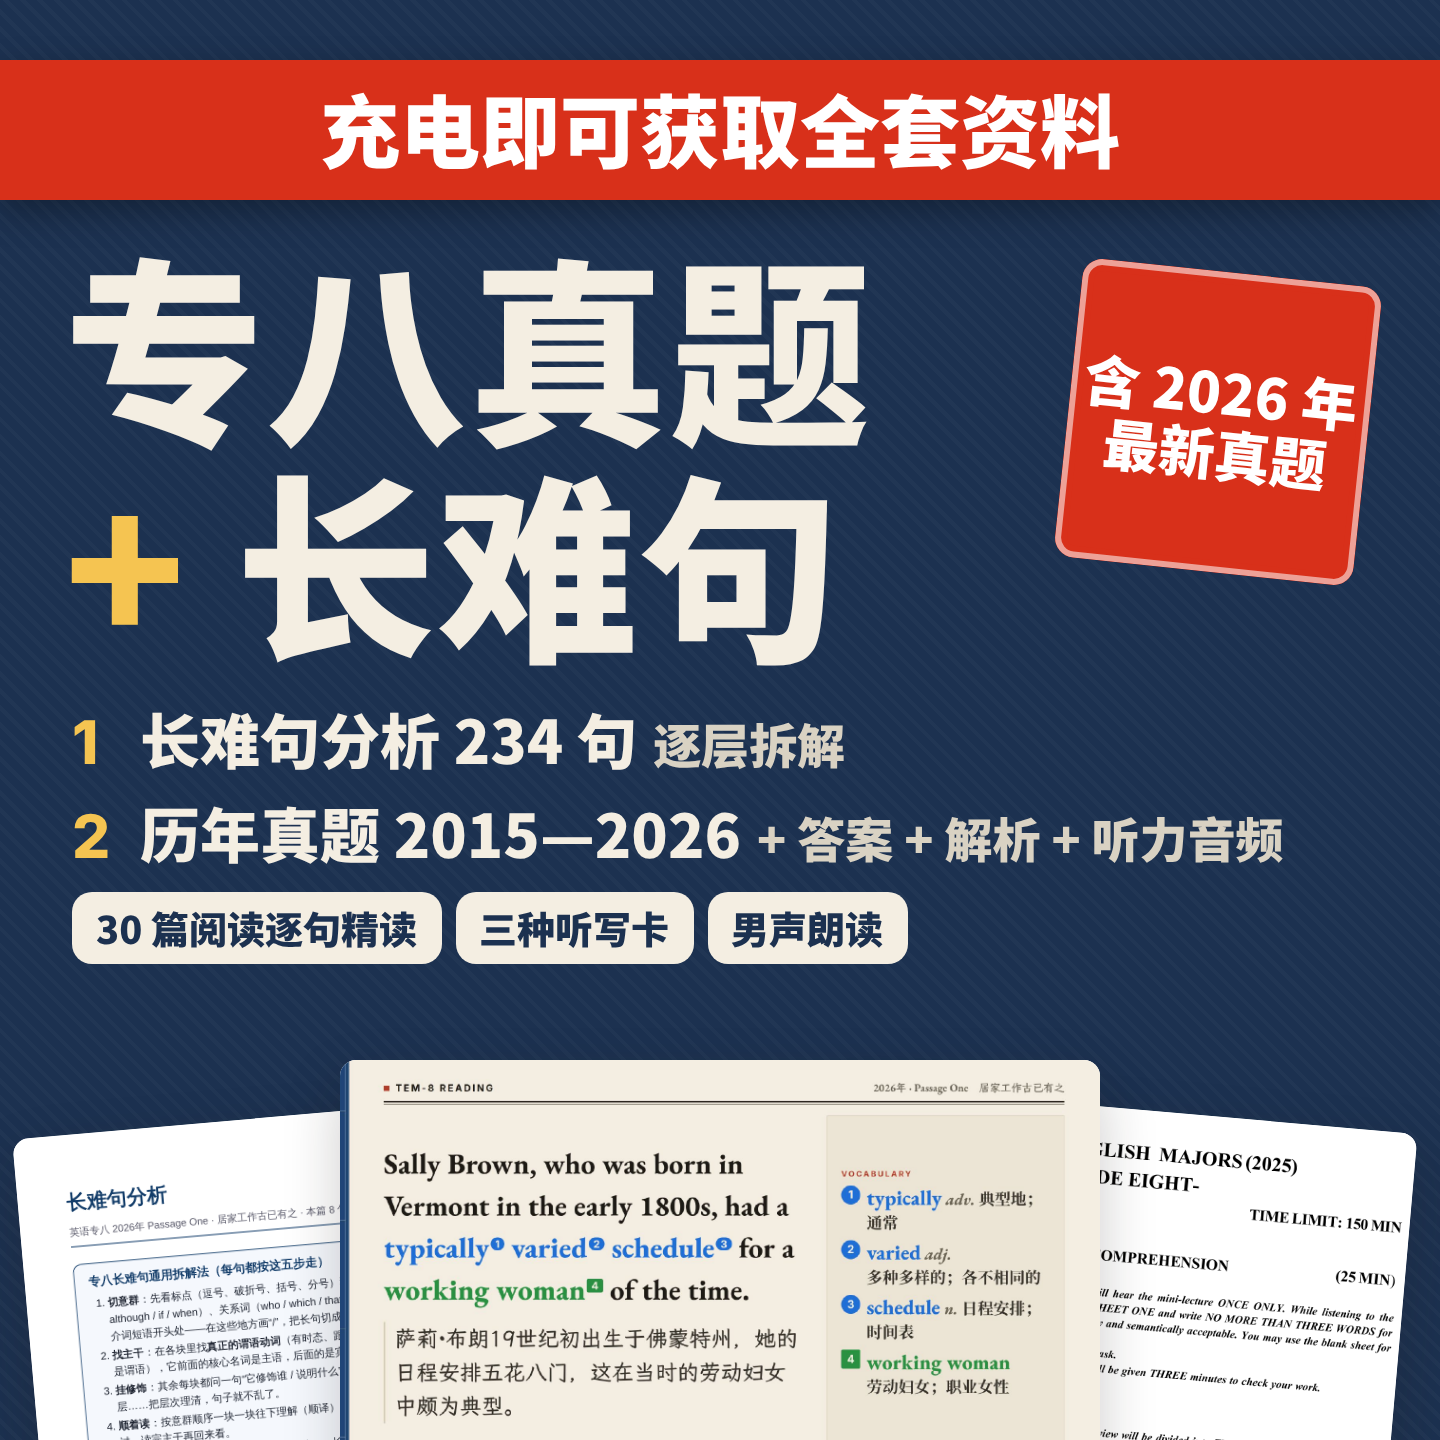
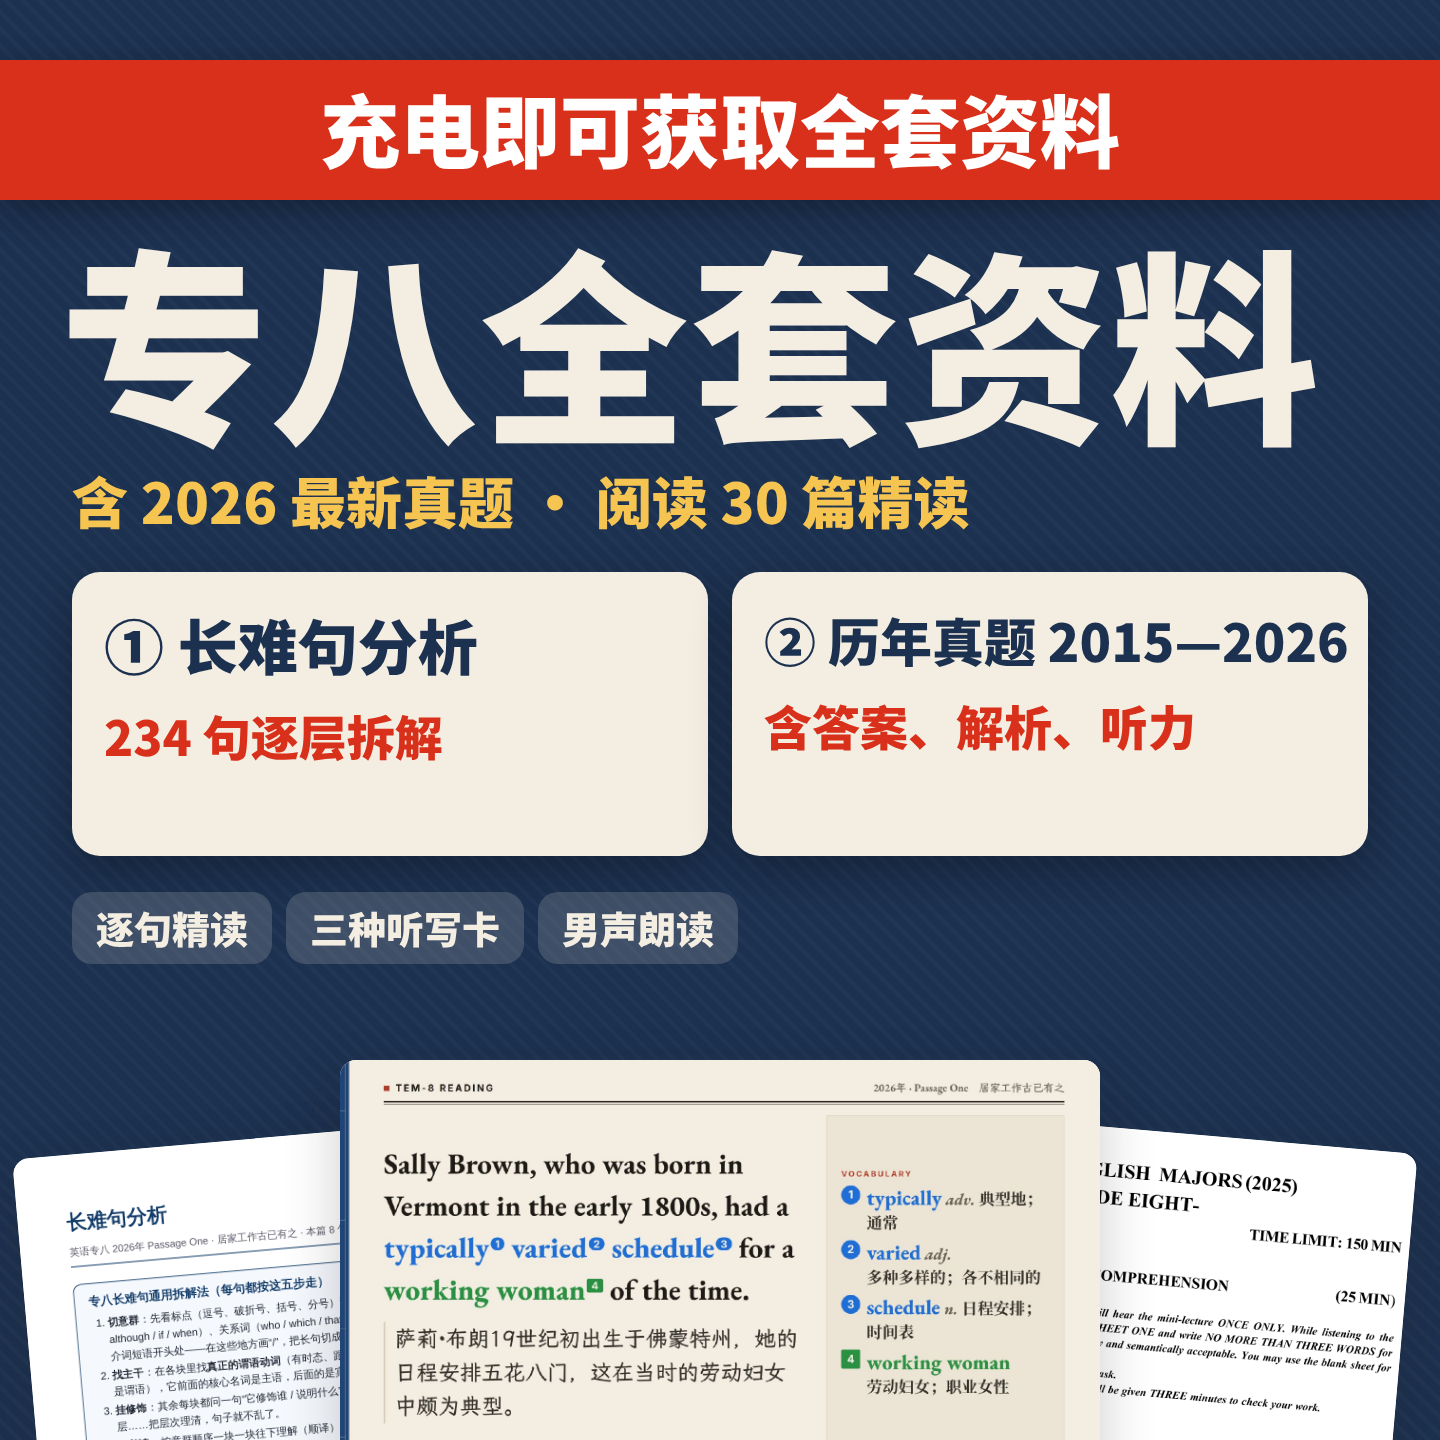
专八 B 站动态图：新封面（专八全套资料 + 长难句 / 历年真题两大块），补年份区间拆行检查
Claude-Session: https://claude.ai/code/session_01BA1TPCtgYnJTqbqxuNYb6d

diff --git a/专八/资料包宣传图/宣传图.py b/专八/资料包宣传图/宣传图.py
@@ -120,6 +120,7 @@ def fs(n):
 
 # 缩到 360 像素（720 设计宽 × 0.5）后的字高下限（像素）
 MIN_TITLE, MIN_HOOK, MIN_H1, MIN_SELL = 22, 12, 14, 9
+MIN_BLOCK = 12      # 封面两大块（长难句、历年真题）：仅次于标题，360 缩略图上至少 12 像素
 MIN_BODY = 17        # 720 设计宽里任何文字的下限（手机看整张图时约 9.4pt）
 
 # 书卷水墨配色（专八/封面/系列封面.py）
@@ -178,28 +179,29 @@ def n(x, c=KY):
 
 # ---------------------------------------------------------------- 01 封面：三个方向
 def cover_A(title=None):
-    """靛蓝书衣：红色横幅“充电即可获取全套资料” + 全套主题大字 + 两大卖点（长难句、历年真题）+ 底部真实页面。"""
+    """靛蓝书衣：红色横幅“充电即可获取全套资料” + 全套主题一行大字 + 并排两大块（① 长难句 ② 历年真题，字号仅次于标题）
+    + 其余一行小标签 + 底部真实页面。两大块在 360 缩略图上必须读得清（data-min = MIN_BLOCK）。"""
     title = title or COVER_TITLE
-    chip = f'class="chip" style="background:{PAPER};color:{CLOTH};font-size:{fs(19)};padding:8px 12px 9px;margin:0 7px 7px 0"'
-    pts = [(f'长难句分析 {LONG} 句', '逐层拆解'), (f'历年真题 2015—2026', '+ 答案 + 解析 + 听力音频')]
-    rows = ''.join(f'<div style="display:flex;align-items:baseline;margin-bottom:6px"><span class="lat" style="color:{YEL};width:34px">{i + 1}</span>'
-                   f'<span>{e(a)}</span><span style="font-size:.8em;color:#d9d2c3;margin-left:8px">{e(b)}</span></div>' for i, (a, b) in enumerate(pts))
+    chip = f'class="chip" style="background:rgba(244,238,226,.16);color:{PAPER};font-size:{fs(19)};padding:8px 12px 9px;margin:0 7px 0 0"'
+    blocks = [('①', '长难句分析', f'{LONG} 句逐层拆解'), ('②', '历年真题 2015—2026', '含答案、解析、听力')]
+    bk = ''.join(f'<div class="ab" data-k="b{i}" data-min="{MIN_BLOCK}" style="left:{36 + i * 330}px;top:286px;width:318px;height:142px;background:{PAPER};border-radius:14px;'
+                 f'padding:18px 16px 0;box-shadow:0 8px 20px rgba(0,0,0,.28)"><div style="font:900 {fs(30 if i == 0 else 26)}/1.25 Black;color:{CLOTH};white-space:nowrap">{a} {e(b)}</div>'
+                 f'<div style="font:900 {fs(24)}/1.5 Black;color:{KY};margin-top:8px">{e(c)}</div></div>' for i, (a, b, c) in enumerate(blocks))
     return f"""<body class="cloth">
 <div class="ab" data-k="hook" data-min="{MIN_HOOK}" style="left:0;top:30px;width:{W}px;background:{KY};color:#fff;padding:14px 0 16px;text-align:center;font:900 {fs(40)}/1 Black;box-shadow:0 6px 16px rgba(0,0,0,.3)">
 <div>{CHARGE}全套资料</div></div>
-<div class="ab" data-k="title" data-min="{MIN_TITLE}" style="left:32px;top:118px;color:{PAPER};font:900 {fs(100)}/1.08 Black;letter-spacing:.01em">{title}</div>
-<div class="ab" data-k="new" data-min="{MIN_SELL}" style="right:36px;top:136px;width:150px;height:150px"><div class="seal" style="width:150px;height:150px;font-size:{fs(28)};transform:rotate(6deg)"><div><div>含 {YEARS[0]} 年</div><div>最新真题</div></div></div></div>
-<div class="ab" data-k="sell" data-min="{MIN_SELL}" style="left:36px;top:350px;width:660px;color:{PAPER};font:900 {fs(30)}/1.3 Black">{rows}</div>
-<div class="ab" data-k="chips" data-min="{MIN_SELL}" style="left:36px;top:446px;width:660px">
-<span {chip}>{N} 篇阅读逐句精读</span><span {chip}>三种听写卡</span><span {chip}>男声朗读</span></div>
-<div class="shot bleed" style="left:24px;top:556px;width:300px;transform:rotate(-5deg)"><img src="{img('cs_full1.png')}"></div>
-<div class="shot bleed" style="left:410px;top:554px;width:290px;transform:rotate(5deg)"><img src="{img('zt_2025.png')}"></div>
+<div class="ab" data-k="title" data-min="{MIN_TITLE}" style="left:30px;top:112px;color:{PAPER};font:900 {fs(title[1])}/1.1 Black;letter-spacing:.01em;white-space:nowrap">{title[0]}</div>
+<div class="ab" data-k="new" data-min="{MIN_SELL}" style="left:36px;top:236px;color:{YEL};font:900 {fs(28)}/1 Black"><div>含 {YEARS[0]} 最新真题 · 阅读 {N} 篇精读</div></div>
+{bk}
+<div class="ab" data-k="chips" data-min="{MIN_SELL}" style="left:36px;top:446px;width:660px"><span {chip}>逐句精读</span><span {chip}>三种听写卡</span><span {chip}>男声朗读</span></div>
+<div class="shot bleed" style="left:24px;top:566px;width:300px;transform:rotate(-5deg)"><img src="{img('cs_full1.png')}"></div>
+<div class="shot bleed" style="left:410px;top:564px;width:290px;transform:rotate(5deg)"><img src="{img('zt_2025.png')}"></div>
 <div class="shot bleed" style="left:170px;top:530px;width:380px"><img src="{img('jd_01_2.png')}"></div>
 </body>"""
 
 
-COVER_TITLES = {'全套': '<div>专八全套</div><div>学习资料</div>',
-                '真题长难句': f'<div>专八真题</div><div><span style="color:{YEL}">+</span> 长难句</div>'}
+COVER_TITLES = {'全套': ('<div>专八全套资料</div>', 104),
+                '真题长难句': (f'<div>专八真题 <span style="color:{YEL}">+</span> 长难句</div>', 80)}
 COVER_TITLE = COVER_TITLES['全套']
 
 
@@ -233,7 +235,7 @@ def cover_C():
 
 # B、C 是第 1 版（只讲阅读 30 篇）比过后落选的方向，第 2 版只在 A 版式里比两种主题说法
 COVERS = {'A': cover_A, 'A2': lambda: cover_A(COVER_TITLES['真题长难句'])}
-COVER = 'A2'         # 第 2 版：A 版式里比“专八全套学习资料”与“专八真题 + 长难句”的 360 缩略图，后者直接点出两大卖点，选 A2
+COVER = 'A'          # 第 3 版（协调会话意见）：一行主标题 + 并排两大块；比“专八全套资料”与“专八真题 + 长难句”的 360 缩略图，前者与横幅“全套资料”呼应，选 A
 
 
 # ---------------------------------------------------------------- 02 资料包总览：6 件套
@@ -431,6 +433,13 @@ CHECK_JS = """
     out.push(`${e.closest('[data-k]').dataset.k} 内容被裁掉 ${e.scrollHeight}>${e.clientHeight}`);
   for (const e of document.querySelectorAll('[data-k]')) if (getComputedStyle(e).overflow === 'hidden' && e.scrollHeight > e.clientHeight + 1)
     out.push(`${e.dataset.k} 内容被裁掉 ${e.scrollHeight}>${e.clientHeight}`);
+  // 年份区间（2015—2026）不能拆成两行
+  const tw2 = document.createTreeWalker(document.body, NodeFilter.SHOW_TEXT), rg2 = document.createRange();
+  for (let t; (t = tw2.nextNode());) for (const m of t.textContent.matchAll(/\d{4}\s*—\s*\d{4}/g)) {
+    rg2.setStart(t, m.index); rg2.setEnd(t, m.index + m[0].length);
+    const ys = new Set([...rg2.getClientRects()].map(q => Math.round(q.top / 4)));
+    if (ys.size > 1) out.push('年份区间拆成两行: ' + m[0]);
+  }
   for (const im of document.images) if (!im.complete || !im.naturalWidth) out.push('图片没加载: ' + im.src.slice(-30));
   for (const e of document.querySelectorAll('.shot:not(.bleed)')) { const b = e.getBoundingClientRect();
     if (b.left < 0 || b.top < 0 || b.right > W || b.bottom > H) out.push('截图出画: ' + e.querySelector('img').src.split('/').pop() + ' ' + JSON.stringify([b.left, b.top, b.right, b.bottom].map(Math.round))); }
@@ -541,8 +550,9 @@ def selftest(br):
         '写了网盘': (lambda: p_all().replace('两大块全套资料', '网盘资料'), '禁用词'),
         '写了私信': (lambda: p_end().replace('每篇一个文件夹', '充电后私信'), '禁用词'),
     }
-    cases['截图压住文字'] = (lambda: cover_A().replace('left:170px;top:530px', 'left:170px;top:440px'), '与截图重叠')
+    cases['截图压住文字'] = (lambda: cover_A().replace('left:170px;top:530px', 'left:170px;top:420px'), '与截图重叠')
     cases['内容被裁掉'] = (lambda: p_all().replace('<div style="height:64px;overflow:hidden', '<div style="height:150px;overflow:hidden'), '内容被裁掉')
+    cases['年份区间拆行'] = (lambda: '<body class="paper"><div class="ab" data-k="t" style="left:40px;top:300px;width:230px;font:700 26px/1.5 Bold"><div>充电历年真题 2015—2026 含答案</div></div></body>', '年份区间')
     cases['封面没有充电'] = (lambda: cover_A().replace(CHARGE, '含全套'), '缺少“充电”')
     cases['收尾没有充电'] = (lambda: p_end().replace(CHARGE, '全套资料').replace('为 UP 主充电', '为 UP 主'), '缺少“充电”')
     for k, (fn, key) in cases.items():
@@ -577,7 +587,7 @@ def main(argv):
         if '--自检' in argv:
             fails = selftest(br)
             br.close()
-            print('\n'.join(fails) or '自检通过：正常 0 处；放回编号、禁用词、别的项目名、缺字、字号过小、写领取方式 / 网盘 / 私信、首尾图缺“充电”、截图压住文字、框里内容被裁掉、缩略图字号×0.25、孤字（不经过 esc）全部报出')
+            print('\n'.join(fails) or '自检通过：正常 0 处；放回编号、禁用词、别的项目名、缺字、字号过小、写领取方式 / 网盘 / 私信、首尾图缺“充电”、截图压住文字、框里内容被裁掉、年份区间拆行、缩略图字号×0.25、孤字（不经过 esc）全部报出')
             return 1 if fails else 0
         bad = []
         if '--封面' in argv:

diff --git a/tools/防复发/方法进化记录.md b/tools/防复发/方法进化记录.md
@@ -158,3 +158,4 @@
 **下一批怎么更省**：宣传图都按这套（素材.py 裁真实页面 + 宣传图.py 现算数字 + 自查 + 3×3 预览一次看完）；别的项目做动态图只换配色、数据源和裁图框。
 **补充（同日，用户经协调会话追加要求）**：改成“充电即可获取全套资料”（首尾必须有“充电”）、加历年真题一块、列内容长难句在首位、图上不写领取流程。改版时人眼在 3×3 预览里看出两处程序没管的毛病：封面卖点压住底部截图、总览真题卡片把最后一个标签裁掉 → 补成程序检查（文字块与截图重叠、overflow:hidden 裁掉内容），自检里故意放回都报出。共看图 13 张。
 **第 2 版**：用户 5 条补充在第 1 版出图之后才到，第 1 版作废重排顺序（长难句第 2 张、历年真题第 3 张）、封面主题升为全套；程序和检查都没大改，只换版式函数和顺序，重出一次 0 处。教训：开工前先问协调会话“交接之后有没有新补充”，可省一版。
+**第 3 版封面**：协调会话看出历年真题在 360 缩略图上太小 → 一行主标题“专八全套资料” + 并排两大块（data-min 12）；做的过程中“2015—/2026”被拆成两行，WRAP_JS 不管 → 补“年份区间拆行”检查（自检报出）。
